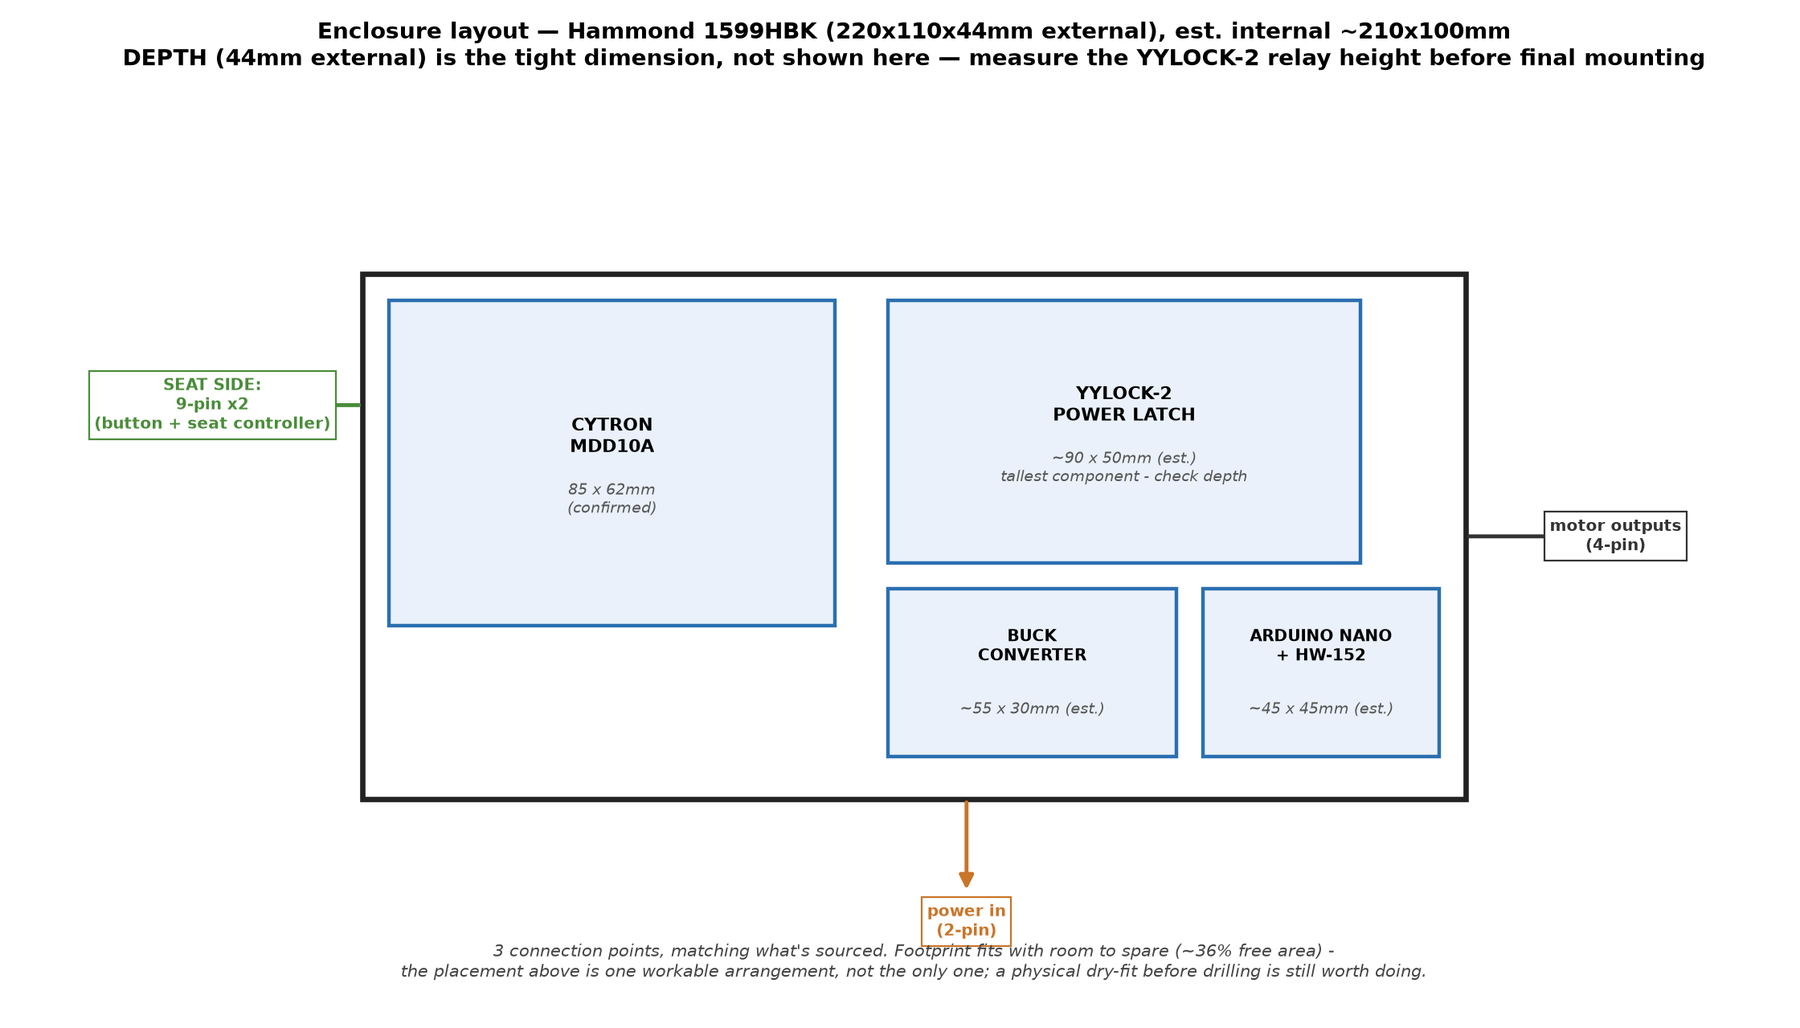
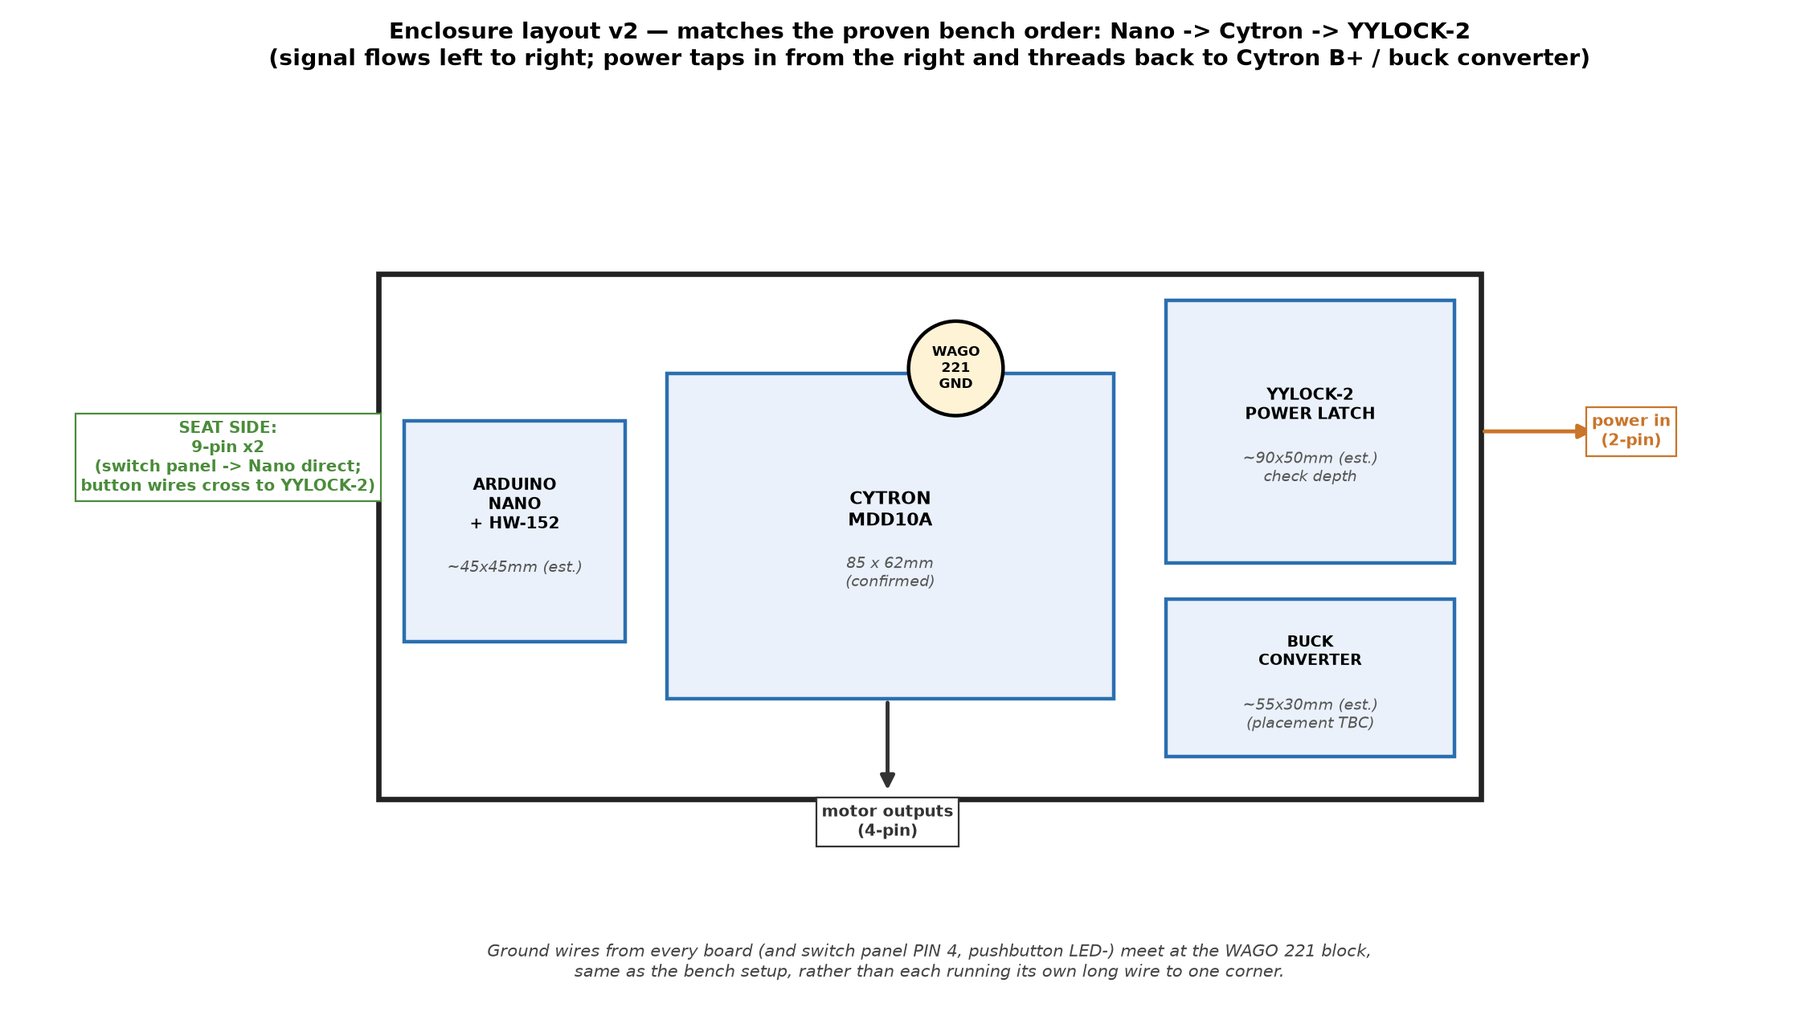
Rework enclosure layout to match the proven bench order
Previous layout grouped boards by rough size rather than following any
particular logic. Rebuilds it around the order already tested and
working on the bench: Nano -> Cytron -> YYLOCK-2 left to right, so
signal flows one direction (switch panel -> Nano -> Cytron -> motors)
while power taps in from the opposite side and threads back to Cytron
B+ and the buck converter. Adds the WAGO 221 lever connector as an
explicit component - the actual common ground junction used on the
bench - rather than leaving grounding as an abstract "meets at a
symbol" concept in this diagram. Buck converter placement (grouped
with YYLOCK-2) is flagged as an assumption pending confirmation.

diff --git a/README.md b/README.md
@@ -411,13 +411,16 @@ Not started. Before any of this touches a vehicle:
   real internal clearance before drilling or gluing anything down. A physical dry-fit settles this
   faster than any diagram can.
 
-  <img src="images/enclosure-layout.png" width="700" alt="Enclosure layout for the Hammond 1599HBK: top-down view showing YYLOCK-2, buck converter, Nano, and Cytron placement with the 3 connector locations">
+  <img src="images/enclosure-layout.png" width="700" alt="Enclosure layout for the Hammond 1599HBK: top-down view showing Nano, Cytron, YYLOCK-2, buck converter, and WAGO ground block placement, matching the proven bench order">
 
-  *Proposed layout for the 1599HBK's ~210×100mm estimated internal footprint — Cytron and YYLOCK-2
-  side by side (the two largest boards), buck converter and Nano sharing the remaining strip below
-  YYLOCK-2. About 36% of the footprint area is spare, so this is one workable arrangement, not the
-  only one. The two 9-pin connectors both exit the seat-facing side (left), motor output exits
-  opposite (right), power enters from the bottom.*
+  *Layout follows the order already proven working on the bench: **Nano → Cytron → YYLOCK-2**,
+  left to right. Signal flows one direction — switch panel into the Nano (left), Nano's control
+  lines into the Cytron (middle), Cytron's outputs to the motors (bottom) — while power taps in
+  from the right (near the YYLOCK-2) and threads back to Cytron `B+` and the buck converter. A WAGO
+  `221` lever connector serves as the common ground junction, same as on the bench, rather than
+  each board running its own long wire to one corner. Buck converter is grouped with the YYLOCK-2
+  since that's where it takes its input from — flag if it should sit elsewhere. About a third of
+  the footprint is spare, so this is one workable arrangement, not the only one.*
 
 ## Next Steps
 
